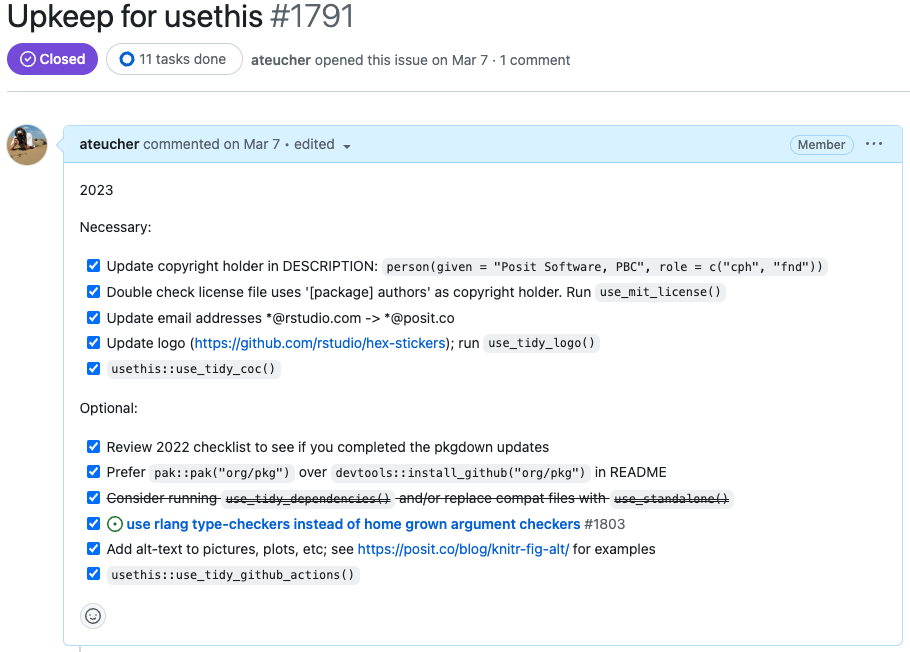
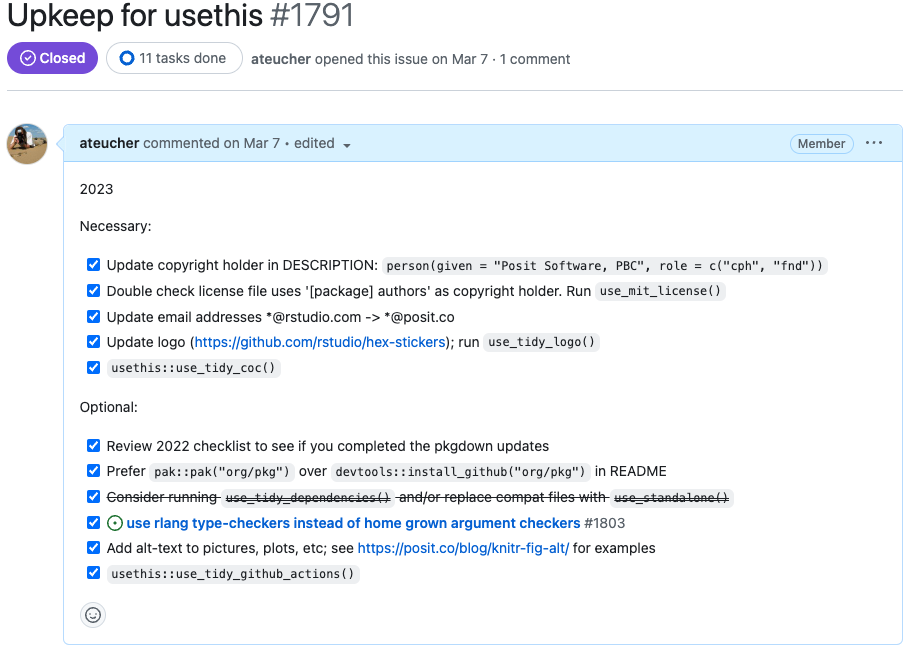
format issue screenshot, add caption

diff --git a/content/blog/spring-cleaning/index.md b/content/blog/spring-cleaning/index.md
@@ -19,7 +19,7 @@ photo:
 # one of: "deep-dive", "learn", "package", "programming", "roundup", or "other"
 categories: [other]
 tags: ["spring cleaning", "package maintenance"]
-rmd_hash: e660d6d3725ef050
+rmd_hash: 33bbdeff328dcef5
 
 ---
 
@@ -54,7 +54,21 @@ We formalize these tasks into a checklist ([who doesn't love checklists](https:/
 
 Package maintainers then install the development version of usethis to get the current checklist, and call `usethis::use_tidy_upkeep_issue()` in their package to create the issue. If there are any tasks that aren't relevant to that particular repo it's easy to just edit the issue and remove it. To be really meta, here is the 2023 Spring Cleaning [upkeep issue for usethis](https://github.com/r-lib/usethis/issues/1791), created by usethis:
 
-[![The 2023 Upkeep Issue for usethis](img/usethis-upkeep-issue.png)](https://github.com/r-lib/usethis/issues/1791)
+<div class="highlight">
+
+<div class="figure" style="text-align: center">
+
+<a href="https://github.com/r-lib/usethis/issues/1791" target="_blank"><img src="img/usethis-upkeep-issue.png" alt="&lt;p style=&quot;color:#696969; font-style: italic;&quot;&gt;2023 Upkeep Issue for usethis&lt;/p&gt;
+" width="700px" /></a>
+<p class="caption">
+<p style="color:#696969; font-style: italic;">
+2023 Upkeep Issue for usethis
+</p>
+</p>
+
+</div>
+
+</div>
 
 We separated the tasks into "Necessary" and "Optional". The necessary tasks were those we needed to complete for all of our packages, and also were simple enough that we could be sure we would able to complete them. The optional items were those that were nice to have, and/or would take longer to complete. We try to complete the work, including reviewing and merging any related [pull requests](https://github.com/tidymodels/dials/pull/275), all within the week, with the intention of closing the upkeep issue by Friday.
 
